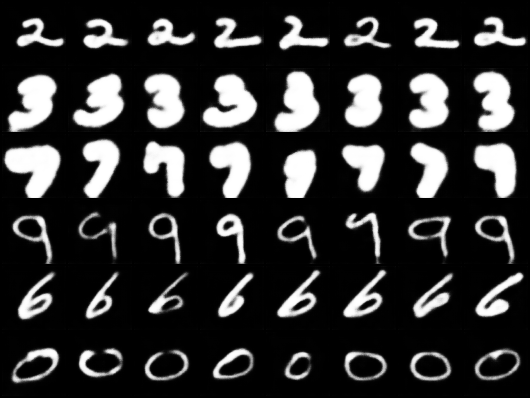
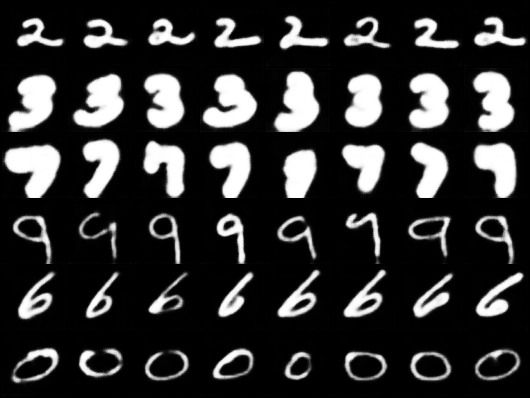
Add shared generator novelty results

diff --git a/README.md b/README.md
@@ -20,6 +20,19 @@ results should not depend on private Drive links.
 - [Cost analysis](https://colab.research.google.com/github/casparbreloh/rbt4dnn-seminar/blob/main/experiments/cost-analysis/notebook.ipynb)
 - [MNIST shared generator](https://colab.research.google.com/github/casparbreloh/rbt4dnn-seminar/blob/main/experiments/mnist-shared-generator/notebook.ipynb)
 
+## Results
+
+- MNIST replication: copied generated images reproduce the paper pass rates closely
+  (`M1-M7` deltas between `-0.012` and `+0.013`).
+- Precondition validity: pass rate alone can be misleading; the strongest estimated
+  valid-failure yields are `SGSM S2`, `MNIST M3`, and `SGSM S1`.
+- Cost analysis: under the stated assumptions, the cheapest estimated valid
+  failures are `SGSM S2` at `$0.05`, `MNIST M3` at `$0.12`, and `SGSM S1`
+  at `$0.14` per estimated valid failure.
+- Shared-generator extension: one small conditional MNIST generator reaches mean
+  pass `0.938` versus `0.942` for the paper's per-requirement LoRA reference,
+  with `0` exact generated/training image matches.
+
 The notebooks clone this repo automatically in Colab if the data is not already
 available. Finished notebooks write `results.csv` and `summary.md` into their
 experiment folder so later Codex runs can inspect the actual findings.

diff --git a/experiments/mnist-shared-generator/summary.md b/experiments/mnist-shared-generator/summary.md
@@ -4,12 +4,13 @@ A single conditional VAE was trained on the copied RBT4DNN MNIST LoRA images for
 
 It generated 100 images per requirement. This is a cheap shared-generator baseline, not a FLUX LoRA reproduction.
 
-Mean pass rate: 0.940 versus 0.942 for the paper's per-requirement LoRA reference.
+Mean pass rate: 0.938 versus 0.942 for the paper's per-requirement LoRA reference.
+Exact generated/training image matches: 0. Mean nearest-train MSE: 0.0024.
 Worst requirement: M3 at pass 0.710000 (29 failures).
 Sample grid: `experiments/mnist-shared-generator/samples.png`.
 
 - M1: pass 1.000000 (delta [phone redacted])
-- M2: pass 0.950000 (delta -0.027000)
+- M2: pass 0.940000 (delta -0.037000)
 - M3: pass 0.710000 (delta -0.014000)
 - M4: pass 0.990000 (delta [phone redacted])
 - M5: pass 1.000000 (delta [phone redacted])